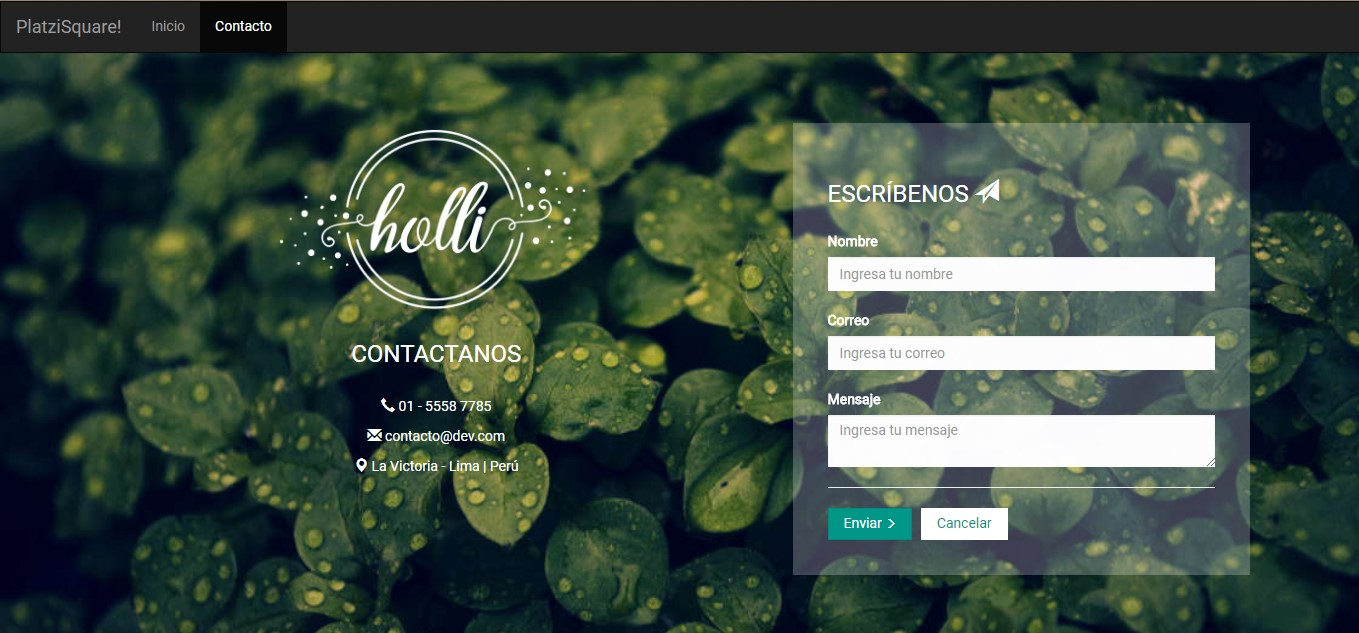
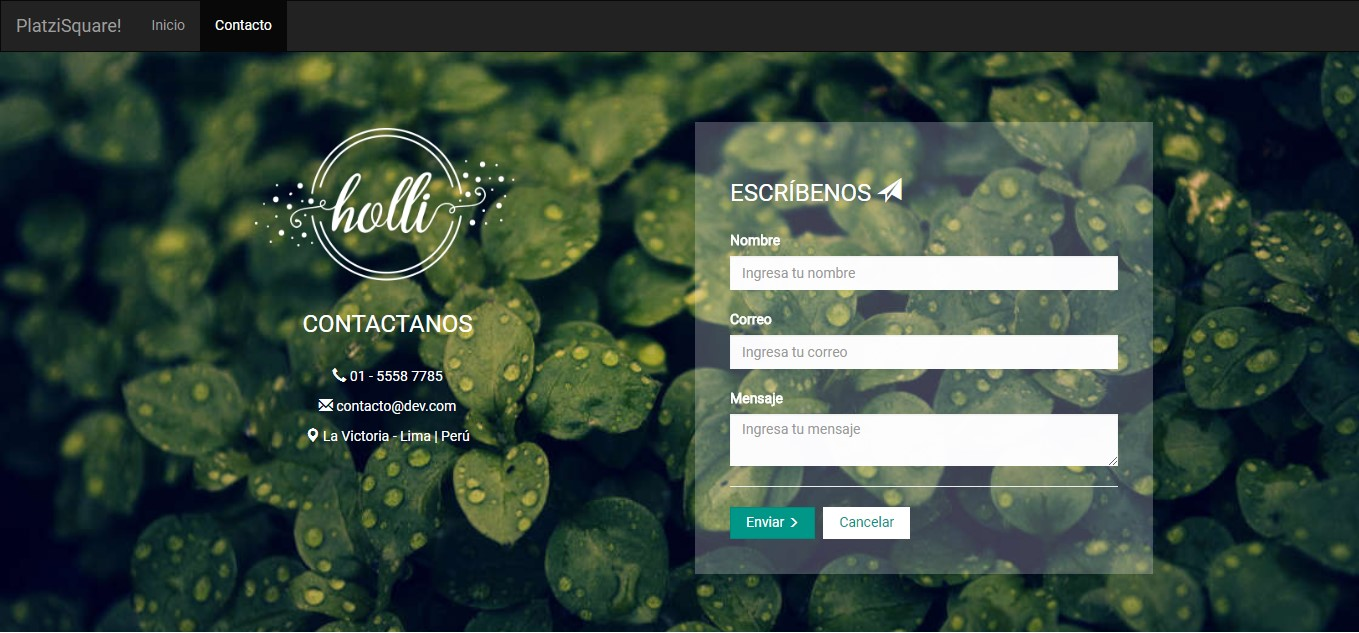
Configurando Firebase en nuestro proyectoGuardando Records en Firebase

diff --git a/src/app/detalle/detalle.component.ts b/src/app/detalle/detalle.component.ts
@@ -1,5 +1,6 @@
 import { Component } from '@angular/core';
 import { ActivatedRoute } from '@angular/router';
+import { LugaresService} from '../services/lugares.service'
 
 @Component({
   selector: 'app-detalle',
@@ -8,24 +9,14 @@ import { ActivatedRoute } from '@angular/router';
 
 /* PROBANDO ROUTER */
 export class DetalleComponent {
-	lugares:any = [
-    {id: 1, plan: "pagado", cercania: 1, distancia: 1, active:true, nombre:'Florería la gardemia', description: 'Descripción de este negocio. Más adelante tendremos más información'},
-    {id: 2, plan: "gratuito", cercania: 1, distancia: 1.5, active:true, nombre:'Donas la pasadita', description: 'Descripción de este negocio. Más adelante tendremos más información'},
-    {id: 3, plan: "pagado", cercania: 2, distancia: 5, active:true, nombre:'Veterinaria Huellitas felices', description: 'Descripción de este negocio. Más adelante tendremos más información'},
-    {id: 4, plan: "gratuito", cercania: 3, distancia: 10, active:false, nombre:'Sushi Suhiroll', description: 'Descripción de este negocio. Más adelante tendremos más información'},
-    {id: 5, plan: "pagado", cercania: 3, distancia: 35, active:true, nombre:'Hotel la Gracia', description: 'Descripción de este negocio. Más adelante tendremos más información'},
-    {id: 6, plan: "gratuito", cercania: 3, distancia: 120, active:true, nombre:'Zapatería el Clavo', description: 'Descripción de este negocio. Más adelante tendremos más información'}
-  ];
+
   id = null;
   lugar: any = {};
-	constructor (private route: ActivatedRoute){
+	constructor (private route: ActivatedRoute, private lugaresService:LugaresService){
 		console.log(this.route.snapshot.params['id']);
 		console.log(this.route.queryParams['action2']);
 		console.log(this.route.queryParams['referer']);
 		this.id = this.route.snapshot.params['id'];
-		this.lugar = this.buscarlugar();
-	}
-	buscarlugar(){
-		return this.lugares.filter((lugar) => { return lugar.id == this.id})[0] || null;
+		this.lugar = this.lugaresService.buscarlugar(this.id);
 	}
 }

diff --git a/src/app/app.module.ts b/src/app/app.module.ts
@@ -11,12 +11,26 @@ import { Routes, RouterModule } from '@angular/router';
 import { DetalleComponent } from './detalle/detalle.component';
 import { LugaresComponent } from './lugares/lugares.component';
 import { ContactoComponent } from './contacto/contacto.component';
+import { CrearComponent } from './crear/crear.component';
+
+import { LugaresService } from './services/lugares.service';
+import { AngularFireModule } from 'angularfire2';
+import { AngularFireDatabaseModule } from 'angularfire2/database';
+import { AngularFireAuthModule } from 'angularfire2/auth';
 const appRoutes: Routes = [
  {path: '', component: LugaresComponent},
  {path: 'lugares', component: LugaresComponent},
  {path: 'detalle/:id', component: DetalleComponent},
  {path: 'contacto', component: ContactoComponent},
+ {path: 'crear', component: CrearComponent},
 ];
+export const firebaseConfig = {
+  apiKey: "AIzaSyAVafGYw6H2cVUmSZUSseuajqBMfnm2Qrw",
+  authDomain: "platzisquare-1506116220932.firebaseapp.com",
+  databaseURL: "https://platzisquare-1506116220932.firebaseio.com",
+  storageBucket: "platzisquare-1506116220932.appspot.com",
+  messagingSenderId: "295418261412"
+};
 @NgModule({
   declarations: [
     AppComponent,
@@ -24,7 +38,8 @@ const appRoutes: Routes = [
     ContarClicksDirective,
     DetalleComponent,
     LugaresComponent,
-    ContactoComponent
+    ContactoComponent,
+    CrearComponent
   ],
   imports: [
     BrowserModule,
@@ -33,9 +48,12 @@ const appRoutes: Routes = [
       apiKey: 'AIzaSyA7ONqmJKpGh6AHpYwFWFuOKTTibxFANGE'
     }),
     BrowserAnimationsModule,
-    RouterModule.forRoot(appRoutes)
+    RouterModule.forRoot(appRoutes),
+    AngularFireModule.initializeApp(firebaseConfig),
+    AngularFireDatabaseModule,
+    AngularFireAuthModule
   ],
-  providers: [],
+  providers: [LugaresService],
   bootstrap: [AppComponent]
 })
 export class AppModule { }

diff --git a/src/app/services/lugares.service.ts b/src/app/services/lugares.service.ts
@@ -1,0 +1,25 @@
+import {Injectable} from "@angular/core";
+import {AngularFireDatabase} from "angularfire2/database/database"
+@Injectable()
+export class LugaresService{
+	lugares:any = [
+    {id: 1, plan: "pagado", cercania: 1, distancia: 1, active:true, nombre:'Florería la gardemia'},
+    {id: 2, plan: "gratuito", cercania: 1, distancia: 1.5, active:true, nombre:'Donas la pasadita'},
+    {id: 3, plan: "pagado", cercania: 2, distancia: 5, active:true, nombre:'Veterinaria Huellitas felices'},
+    {id: 4, plan: "gratuito", cercania: 3, distancia: 10, active:false, nombre:'Sushi Suhiroll'},
+    {id: 5, plan: "pagado", cercania: 3, distancia: 35, active:true, nombre:'Hotel la Gracia'},
+    {id: 6, plan: "gratuito", cercania: 3, distancia: 120, active:true, nombre:'Zapatería el Clavo'},
+    {id: 7, plan: "gratuito", cercania: 1, distancia: 100, active:true, nombre:'Prueba'},
+  ];
+  constructor (private afDB:AngularFireDatabase){}
+  public getLugares(){
+  	return this.lugares;
+  }
+  public buscarLugar(id){
+    return this.lugares.filter((lugar) => { return lugar.id == id})[0] || null;
+  }
+  public guardarLugar(lugar){
+    console.log(lugar);
+    this.afDB.database.ref('lugares/1').set(lugar);
+  }
+}

diff --git a/src/app/lugares/lugares.component.ts b/src/app/lugares/lugares.component.ts
@@ -1,4 +1,5 @@
 import { Component } from '@angular/core';
+import {LugaresService} from "../services/lugares.service";
 
 @Component({
   selector: 'app-lugares',
@@ -10,18 +11,11 @@ import { Component } from '@angular/core';
 /* PROBANDO ROUTER */
 export class LugaresComponent {
   title = 'PlatziSquare';
-  lugares:any = [
-    {id: 1, plan: "pagado", cercania: 1, distancia: 1, active:true, nombre:'Florería la gardemia'},
-    {id: 2, plan: "gratuito", cercania: 1, distancia: 1.5, active:true, nombre:'Donas la pasadita'},
-    {id: 3, plan: "pagado", cercania: 2, distancia: 5, active:true, nombre:'Veterinaria Huellitas felices'},
-    {id: 4, plan: "gratuito", cercania: 3, distancia: 10, active:false, nombre:'Sushi Suhiroll'},
-    {id: 5, plan: "pagado", cercania: 3, distancia: 35, active:true, nombre:'Hotel la Gracia'},
-    {id: 6, plan: "gratuito", cercania: 3, distancia: 120, active:true, nombre:'Zapatería el Clavo'}
-  ];
 
   lat:number= -12.0482677;
   lng:number= -77.0453564;
-
-  constructor(){
+  lugares = null;
+  constructor(private lugaresService: LugaresService){
+    this.lugares = lugaresService.getLugares();
   }
 }

diff --git a/src/app/crear/crear.component.html b/src/app/crear/crear.component.html
@@ -1,0 +1,22 @@
+<div class="well">
+	<a routerLink="/lugares">Lugares</a> / Crear Lugar
+</div>
+<div class="container">
+	<label>Nombre</label>
+	<input type="text" class="form-control" [(ngModel)]="lugar.nombre">
+	<br>
+	<label>Distancia</label>
+	<input type="number" class="form-control" [(ngModel)]="lugar.distancia">
+	<br>
+	<label>Cercanía</label>
+	<input type="number" class="form-control" [(ngModel)]="lugar.cercania">
+	<br>
+	<label>Descripción</label>
+	<textarea class="form-control" [(ngModel)]="lugar.descripcion"></textarea>
+	<br>
+	<label>Plan</label>
+	<input type="text" class="form-control" [(ngModel)]="lugar.plan">
+	<br>
+	<a class="btn btn-primary" (click)="guardarLugar()">Enviar</a>
+	<a class="btn btn-default" routerLink="/lugares">Cancelar</a>
+</div>

diff --git a/src/app/lugares/lugares.component.html b/src/app/lugares/lugares.component.html
@@ -6,6 +6,7 @@
   <div class="row">
     <div class="col-md-8">
       <h2>Lugares cercanos</h2>
+      <a class="btn btn-primary" routerLink="/crear">Crear Nuevo Negocio</a>
       <ul class="list-group">
         <ng-container *ngFor="let lugar of lugares">  
           <a routerLink="/detalle/{{lugar.id}}" [queryParams]="{action2:'edit', referer:'google'}"><li *ngIf="lugar.active"  class="list-group-item">{{lugar.nombre}}</li></a>

diff --git a/src/app/crear/crear.component.ts b/src/app/crear/crear.component.ts
@@ -1,0 +1,18 @@
+import { Component } from '@angular/core';
+import { LugaresService } from '../services/lugares.service';
+
+@Component({
+  selector: 'app-crear',
+  templateUrl: './crear.component.html',
+})
+
+
+export class CrearComponent {
+	lugar:any = {};
+	constructor(private lugaresService: LugaresService){
+
+	}
+	guardarLugar(){
+		this.lugaresService.guardarLugar(this.lugar)
+	}
+}

diff --git a/src/app/contacto/contacto.component.html b/src/app/contacto/contacto.component.html
@@ -1,7 +1,7 @@
 <section class="wrap_contacto">
 	<div class="container">
 		<div class="row">
-			<div class="col-md-7">
+			<div class="col-md-6">
 				<div class="dev_servicio">
 					<div class="img_logo"><img src="../../assets/logo.png"></div>
 				</div>
@@ -31,6 +31,5 @@
 				</div>
 			</div>
 		</div>
-
 	</div>
 </section>
